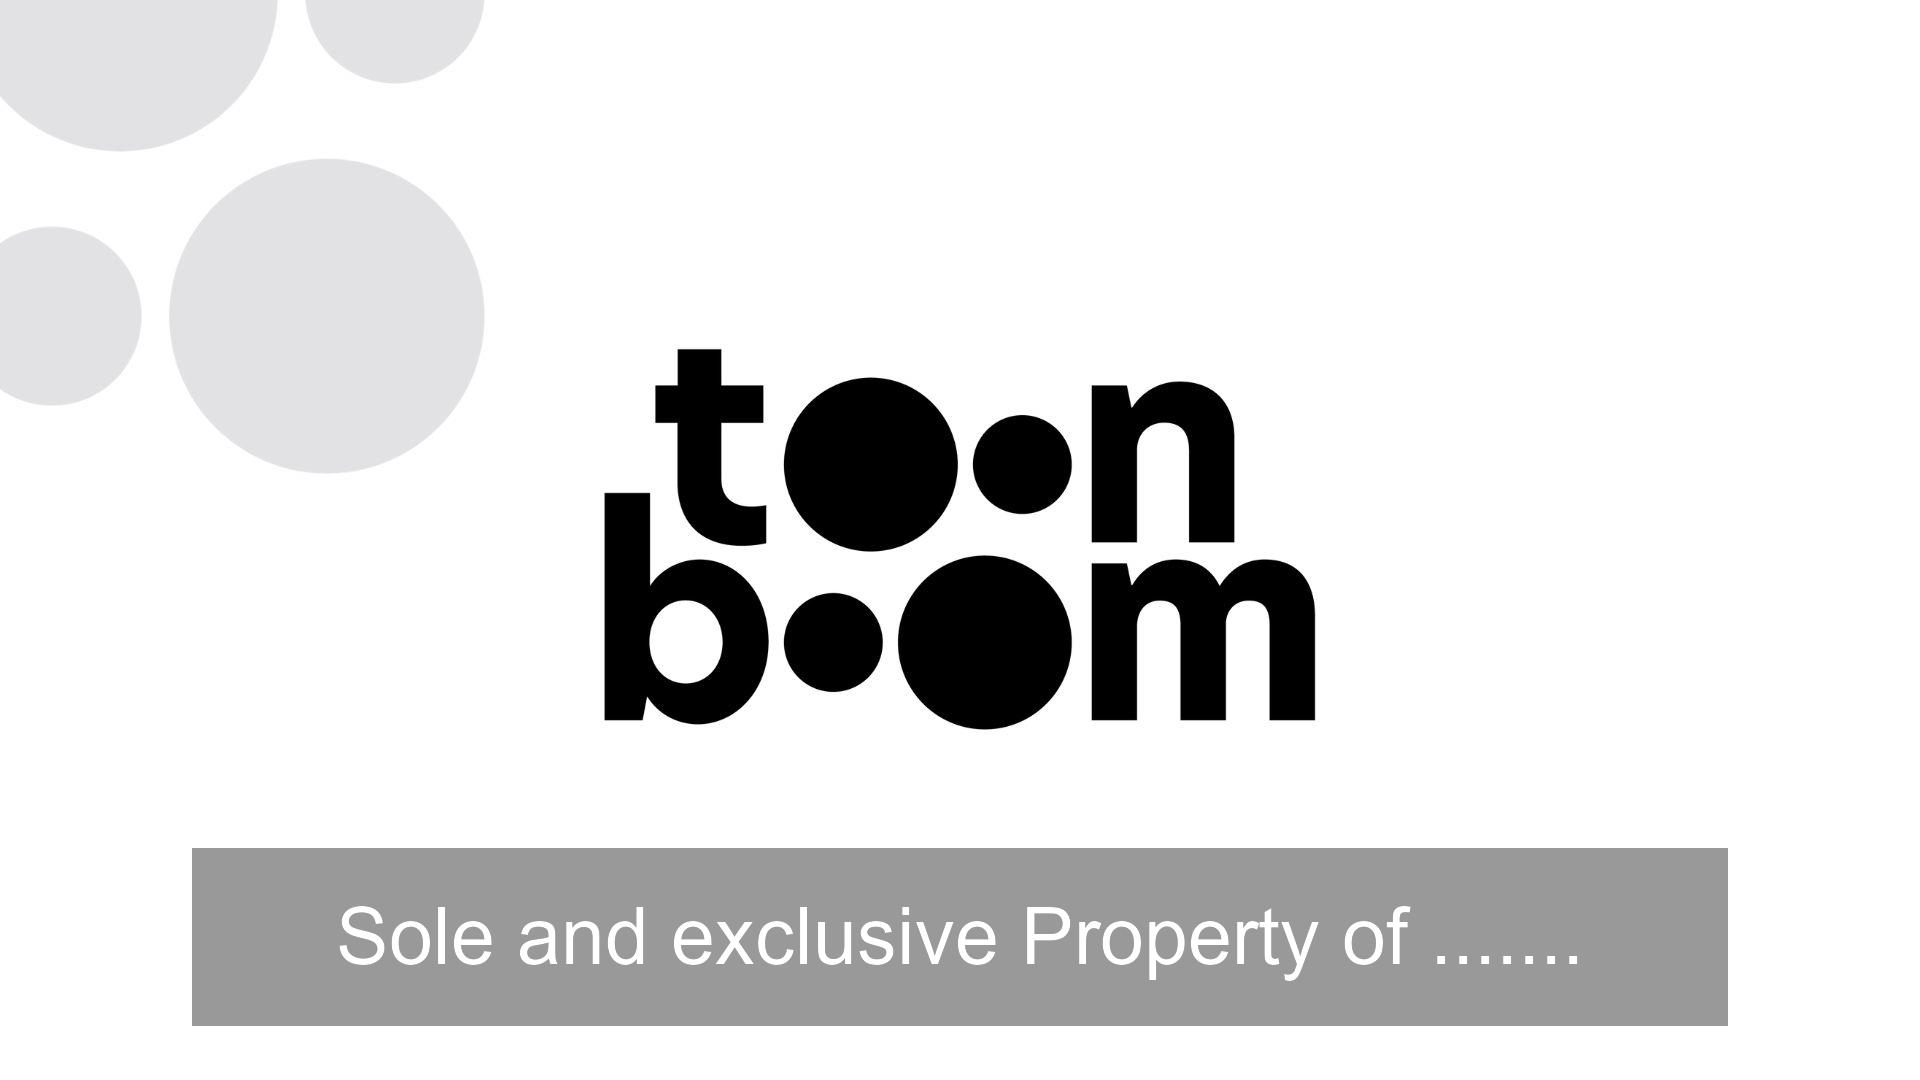
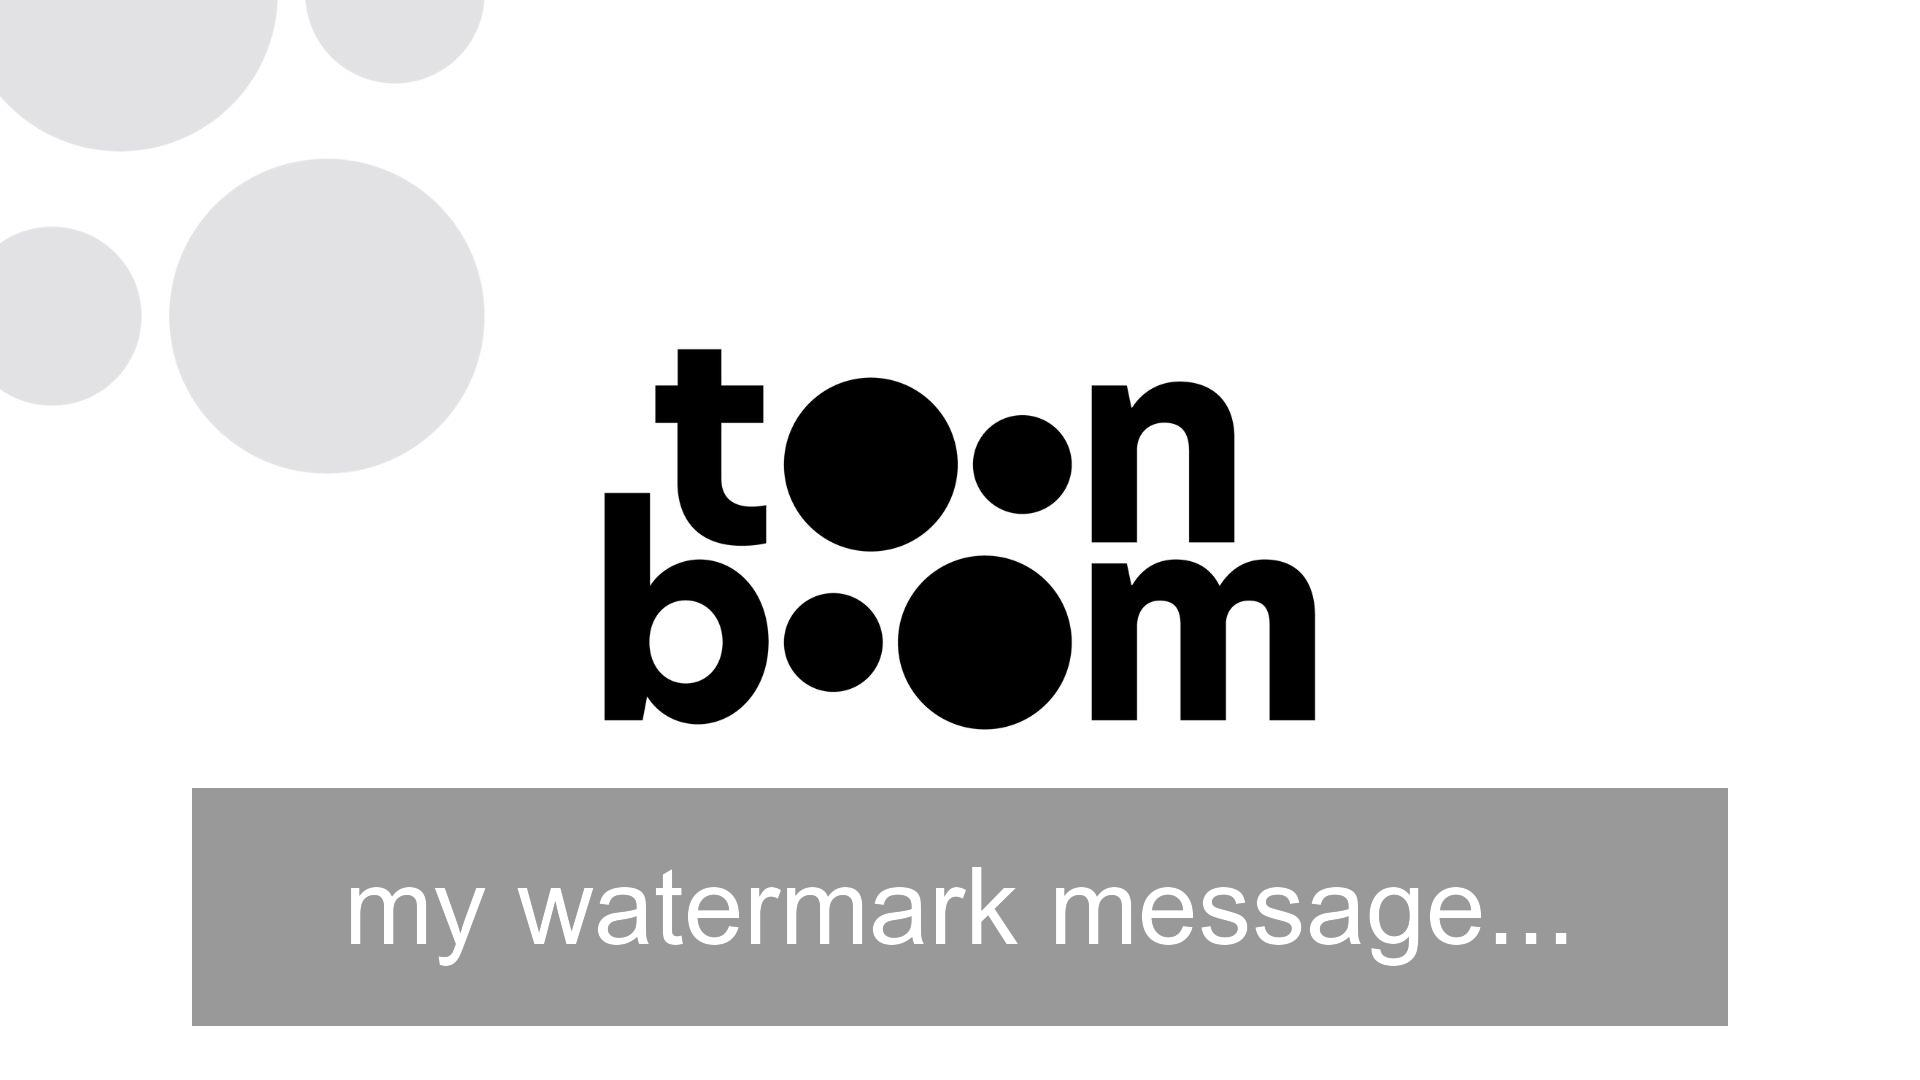
watermark test working

Changed region(s): [[0.0938, 0.7028, 0.9062, 0.9167]]

diff --git a/scripts/TD24Q1_10-7_watermarkRender.js b/scripts/TD24Q1_10-7_watermarkRender.js
@@ -4,8 +4,9 @@ function watermarkRenderedImages(){
 
   MessageLog.trace("starting : watermarkRenderedImages")
 
-  var command     = "Python.exe"
-  var arguments   = [myPythonScript,"test1" , "test2"]
+  var command       = "Python.exe"
+  var watermarkText = "my watermark message..."
+  var arguments     = [myPythonScript,watermarkText]
   
   var QPro  = new QProcess();
   QPro.start(command, arguments)

diff --git a/scripts/TD24Q1-10-8_watermarkRender.py b/scripts/TD24Q1-10-8_watermarkRender.py
@@ -1,7 +1,7 @@
 #TD101_watermarkRender.py
 import sys
 myArguments = sys.argv
-#print(myArguments)
+
 import os
 from PIL import Image, ImageDraw, ImageFont
 
@@ -56,20 +56,14 @@ def add_watermark(img_path, copy_text, output):
   
   # if the process was a success, it returns true, otherwise the return value will be False
   return True 
-
-def generateWatermarkedImage_test(sourceImage):
-  watermarkedImage  = os.path.splitext(sourceImage)[0] + "_watermarked.jpg"
-  copyText          = "Sole and exclusive Property of ......." 
-
-  watermarkResult = add_watermark(sourceImage,copyText,watermarkedImage)
-  if(watermarkResult):
-    print("Generated: {}".format(watermarkedImage))
     
-def generateWatermarkedImage_fromHarmony():
-  sourceImage       = myArguments[0]
-  watermarkedImage  = myArguments[1]
-  copyText          = myArguments[2]
+def generateWatermarkedImage_fromHarmony(sourceImage, copyText ):
+  
+  watermarkedImage  = os.path.splitext(sourceImage)[0] + "_watermarked.jpg"
+  
+
   if(add_watermark(sourceImage,copyText,watermarkedImage)):
     print("Generated: {}".format(watermarkedImage))
     
-generateWatermarkedImage_test("C:\Github\ToonTools\TD_Course_2024_Q1\watermark\source_image.jpg")
+
+generateWatermarkedImage_fromHarmony("C:\Github\ToonTools\TD_Course_2024_Q1\watermark\source_image.jpg",myArguments[1] )
